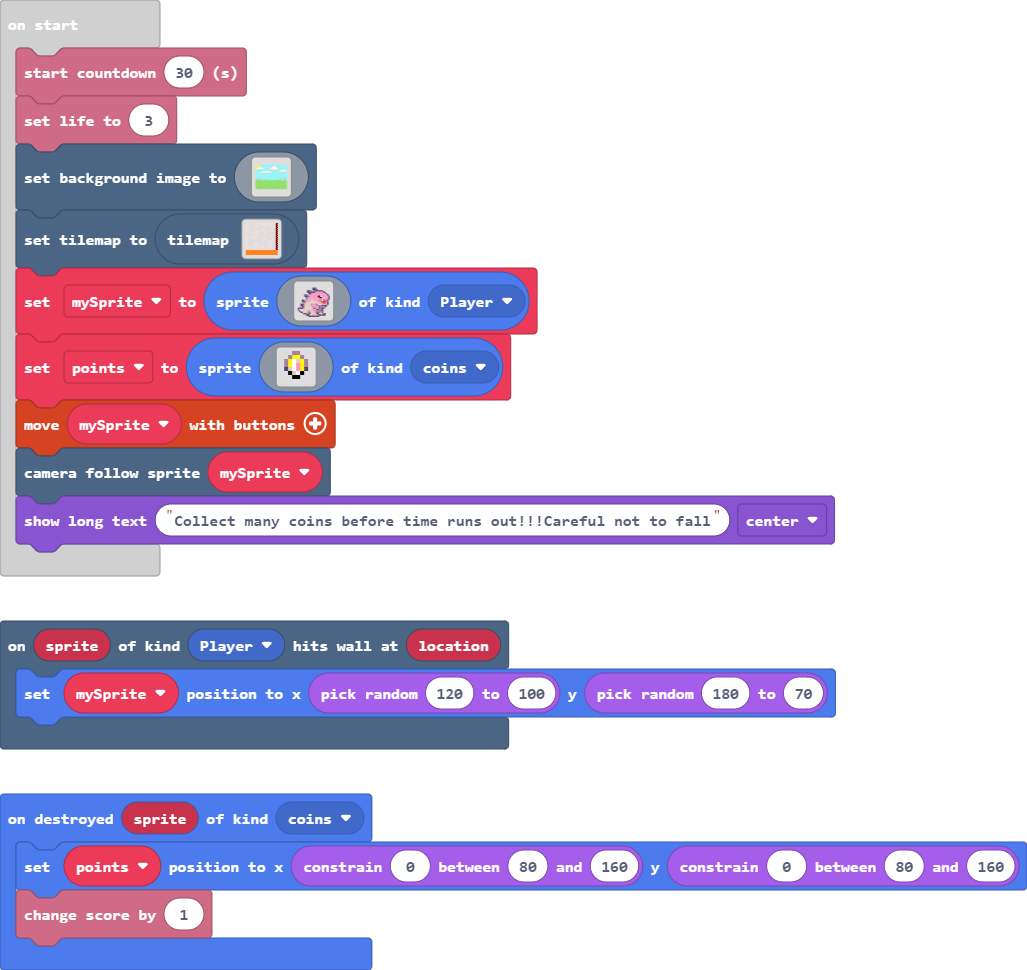
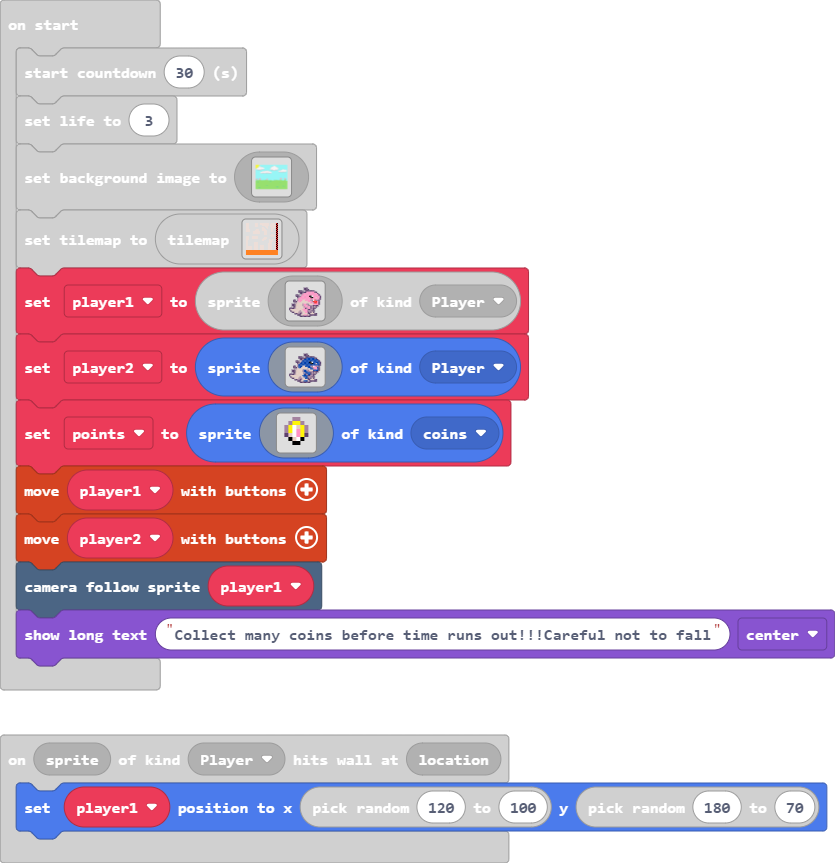
Update main.blocks, main.ts, tilemap.g.jres, tilemap.g.ts

diff --git a/tilemap.g.ts b/tilemap.g.ts
@@ -68,60 +68,41 @@ namespace myTiles {
 . . . . . . . . . . . . . . . . 
 . . . . . . . . . . . . . . . . 
 `, [myTiles.transparency16], TileScale.Sixteen);
-            case "level5":
-            case "level5":return tiles.createTilemap(hex`1000100000000000000000000000000000000000000000000000000000000000000000000000000000000000000000000000000000000000000000000000000000000000000000000000000000000000000000000000000000000000000000000000000000000000000000000000000000000000000000000000000000000000000000000000000000000000000000000000000000000000000000000000000000000000000000000000000000000000000000000000000000000000000000000000000000000000000000000000000000000000000000000000000000000000000000000000000000000000000000000000000000000000000000000000000000000000`, img`
-. . . . . . . . . . . . . . . . 
-. . . . . . . . . . . . . . . . 
-. . . . . . . . . . . . . . . . 
-. . . . . . . . . . . . . . . . 
-. . . . . . . . . . . . . . . . 
-. . . . . . . . . . . . . . . . 
-. . . . . . . . . . . . . . . . 
-. . . . . . . . . . . . . . . . 
-. . . . . . . . . . . . . . . . 
-. . . . . . . . . . . . . . . . 
-. . . . . . . . . . . . . . . . 
-. . . . . . . . . . . . . . . . 
-. . . . . . . . . . . . . . . . 
-. . . . . . . . . . . . . . . . 
-. . . . . . . . . . . . . . . . 
-. . . . . . . . . . . . . . . . 
-`, [myTiles.transparency16], TileScale.Sixteen);
             case "level1":
-            case "level1":return tiles.createTilemap(hex`2000200002020200000000000002020200000202020202020202020000020202020003040202020000000000000202020000020202020202020202000202020202000403020202000000000000020202000000000202020202020200020202020202030402020200000000000002020200000000000000000202000002020202020204030202020000000000000000000000000000000000000200000002020202000304020202000000000000000000000000000202000000000000000202020000040302020202000000000000000000000000020202000000000000020200000003040202020200000000000202020200000002020202020000000002020000000403020202020000000202020202020200000000020202000000000202000000030400000000000000020202020202020000000002020200000000000000000004030000000000000002020202020202000000000202020000000000000000000304000000000000000000000000000000000000020202000000000000000000040300000000000000000000000000000000000000000000000002020202020003040202020000000202020202020000000000000000000000000002020200000403020202000000020202020202000000000000020202000000000000000000030402020200000002020202020200000000000202020200000000000000000004030202020000000000000000000000000002020202000000020200020200000304020200000000000000000000000000000202000000000002020202000000040302020000000000000000000000000000000000000000000202020200000003040202000000000000020202020000000000000000000000020202000000000403020200000000000002020202000000000000000000000202020200000002030402020000000000000202020200000000000000000000020202020000000204030202000000000000020202020000020202020000000002020202000000020304020202020202000002020202000002020202000000000202020200000002040302020202020200000202020200000202020200000000020202020000000203040202020202020000020202020000020202020000000002020202000000020403020202020202000002020202000002020202000000000202020200000002030401010101010101010101010101010101010101010101010101010101010101010101010101010101010101010101010101010101010101010101010101010101010101010101010101010101010101010101010101010101010101010101010101010101010101010101010101010101010101010101010101010101010101010101010101010101010101010101010101010101010101010101010101010101`, img`
-222......222..222222222..2222...
-222......222..222222222.22222...
-222......222....2222222.222222..
-222......222........22..222222..
-222..................2...2222...
-222.............22.......222....
-2222............222......22.....
-2222.....2222...22222....22.....
-2222...2222222....222....22.....
-.......2222222....222...........
-.......2222222....222...........
-..................222...........
-........................22222...
-222...222222.............222....
-222...222222......222...........
-222...222222.....2222...........
-222.............2222...22.22....
-22..............22.....2222.....
-22.....................2222.....
-22......2222...........222......
-22......2222..........2222...2..
-22......2222..........2222...2..
-22......2222..2222....2222...2..
-222222..2222..2222....2222...2..
-222222..2222..2222....2222...2..
-222222..2222..2222....2222...2..
-222222..2222..2222....2222...2..
-.............................2..
+            case "level1":return tiles.createTilemap(hex`2000200002020200000000000002020200000202020202020202020000020202020004050202020000000000000202020000020202020202020202000202020202000504020202000000000000020202000000000202020202020200020202020202040502020200000000000002020200000000000000020202000002020202020205040202020000000000000000000000000002020000020200000002020202000405020202000000000000000000000000000202020000020000000202020000050402020202000000000000020202000000020202020000000000020200000004050202020200000000000202020200000002020202020000000002020000000504020202020000000202020202020200000000020202000000000202000000040500000000000000020202020202020000000002020200000000000000000005040000000000000002020202020202000000000202020000000000000000000405000000000000000000000000000000000000020202000000000202000000050400000000000000000000000000000000000000000000000002020202020004050202020000000202020202020000000000000000000000000002020200000504020202000000020202020202000000000000020202000000000000000000040502020200000002020202020200000000000202020200000000000000000005040202020000000000000000000000000002020202000000020200020200000405020200000000000000000000000000000202000000000002020202000000050402020000000000000000000000000000000000000000000202020200000004050202000000000000020202020000000000000000000000020202000000000504020200000000000002020202000000000000000000000202020200000002040502020000000000000202020200000000000000000000020202020000000205040202000000000000020202020000020202020000000002020202000000020405020202020202000002020202000002020202000000000202020200000002050402020202020200000202020200000202020200000000020202020000000204050202020202020000020202020000020202020000000002020202000000020504020202020202000002020202000002020202000000000202020200000002040501010101010101010101010101010101010101010101010101010101010101010101010101010101010101010101010101010101010101010101010101010101010101010101010101010101010101010101010101010101010101010101010101010101010101010101010101010101010101010101010101010101010101010101010101010101010101010101010101010101010101010101010101010101`, img`
 ................................
 ................................
 ................................
 ................................
-`, [myTiles.transparency16,sprites.dungeon.hazardLava1,sprites.builtin.brick,myTiles.tile2,myTiles.tile3], TileScale.Sixteen);
+................................
+................................
+................................
+................................
+................................
+................................
+................................
+................................
+................................
+................................
+................................
+................................
+................................
+................................
+................................
+................................
+................................
+................................
+................................
+................................
+................................
+................................
+................................
+................................
+................................
+................................
+................................
+................................
+`, [myTiles.transparency16,sprites.dungeon.hazardLava1,sprites.builtin.brick,myTiles.tile1,myTiles.tile2,myTiles.tile3], TileScale.Sixteen);
         }
         return null;
     })

diff --git a/main.ts b/main.ts
@@ -2,14 +2,14 @@ namespace SpriteKind {
     export const coins = SpriteKind.create()
 }
 scene.onHitWall(SpriteKind.Player, function (sprite, location) {
-    mySprite.setPosition(randint(120, 100), randint(180, 70))
+    player1.setPosition(randint(120, 100), randint(180, 70))
 })
 sprites.onDestroyed(SpriteKind.coins, function (sprite) {
     points.setPosition(Math.constrain(0, 80, 160), Math.constrain(0, 80, 160))
     info.changeScoreBy(1)
 })
 let points: Sprite = null
-let mySprite: Sprite = null
+let player1: Sprite = null
 info.startCountdown(30)
 info.setLife(3)
 scene.setBackgroundImage(img`
@@ -135,7 +135,7 @@ scene.setBackgroundImage(img`
     7777777777777777777777777777777777777777777777777777777777777777777777777777777777777777777777777777777777777777777777777777777777777777777777777777777777777777
     `)
 tiles.setCurrentTilemap(tilemap`level1`)
-mySprite = sprites.create(img`
+player1 = sprites.create(img`
     ........................
     ........................
     ...........ccc..........
@@ -161,6 +161,32 @@ mySprite = sprites.create(img`
     ......cccdd333dcccccc...
     ........cccccccc........
     `, SpriteKind.Player)
+let player2 = sprites.create(img`
+    ........................
+    ........................
+    ...........ccc..........
+    ...........cccc.........
+    .......ccc..ccccccc.....
+    .......cccccc888888cc...
+    ........ccb8888888888c..
+    .....cc..b888888888888c.
+    .....cccb888888ff188888c
+    ......cb88888888ff88d88c
+    ......b8888888888888888c
+    ...cc.b888dd8888bb13bbc.
+    ...cccd88ddddd888b3338c.
+    .....bdddddddddd88b338c.
+    ..cccdddddb88bbddd8888c.
+    ..cccdddddb888bbbbcccc..
+    ...ccddddddb8888cbcdc...
+    ccccbdddddd8cb88cbcc....
+    cddddddddd8888ccbbc.....
+    .cddddddbdd888bbbcc.....
+    ..ccdddbbbdd88cbcdc.....
+    ....ccbbcbddddccdddcc...
+    ......cccdd888dcccccc...
+    ........cccccccc........
+    `, SpriteKind.Player)
 points = sprites.create(img`
     . . . b b . . . 
     . . b 5 5 b . . 
@@ -171,6 +197,7 @@ points = sprites.create(img`
     . . . f f . . . 
     . . . . . . . . 
     `, SpriteKind.coins)
-controller.moveSprite(mySprite)
-scene.cameraFollowSprite(mySprite)
+controller.moveSprite(player1)
+controller.moveSprite(player2)
+scene.cameraFollowSprite(player1)
 game.showLongText("Collect many coins before time runs out!!!Careful not to fall", DialogLayout.Center)
